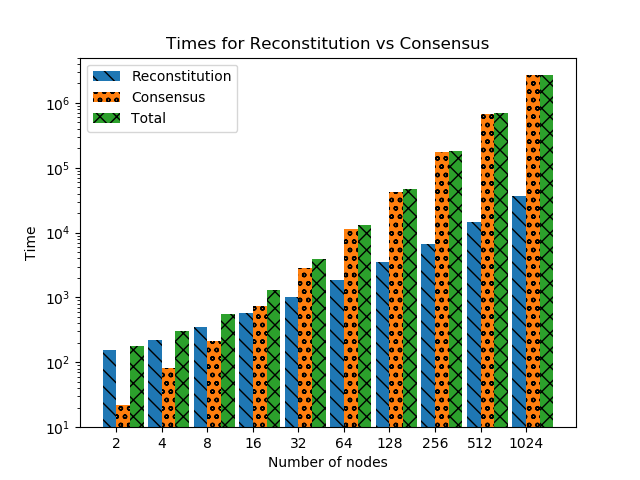
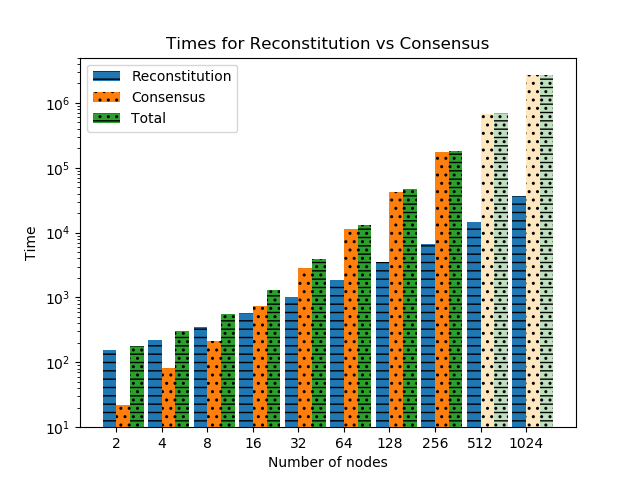
update bar

Changed region(s): [[0.1562, 0.1562, 0.875, 0.9062], [0.1562, 0.1562, 0.1875, 0.2812]]

diff --git a/results/analysis.py b/results/analysis.py
@@ -139,9 +139,13 @@ def generate_stacked_bar_for_reconstitution_vs_pki():
     fig, ax = plt.subplots()
 
     x = np.arange(len(svc))
-    b = ax.bar(x + 0 * dimw, reconstitution, dimw, bottom=0.001, label="Reconstitution", hatch="\\\\")
-    b = ax.bar(x + 1 * dimw, svc, dimw, bottom=0.001, label="Consensus", hatch="oo")
-    c = ax.bar(x + 2 * dimw, total, dimw, bottom=0.001, label="Total", hatch="XX")
+
+    b = ax.bar(x + 0 * dimw, reconstitution, dimw, bottom=0.001, label="Reconstitution", hatch="--")
+    b = ax.bar(x[:-2] + 1 * dimw, svc[:-2], dimw, bottom=0.001, label="Consensus", hatch="..")
+    c = ax.bar(x[:-2] + 2 * dimw, total[:-2], dimw, bottom=0.001, label="Total", hatch="--..")
+
+    b = ax.bar(x[-2:] + 1 * dimw, svc[-2:], dimw, bottom=0.001, hatch="..", alpha=0.25, color="orange")
+    c = ax.bar(x[-2:] + 2 * dimw, total[-2:], dimw, bottom=0.001, hatch="--..", alpha=0.25, color="green")
 
     ax.set_xticks(x + dimw / 2)
     ax.set_xticklabels(map(str, 2**(x+1)))
